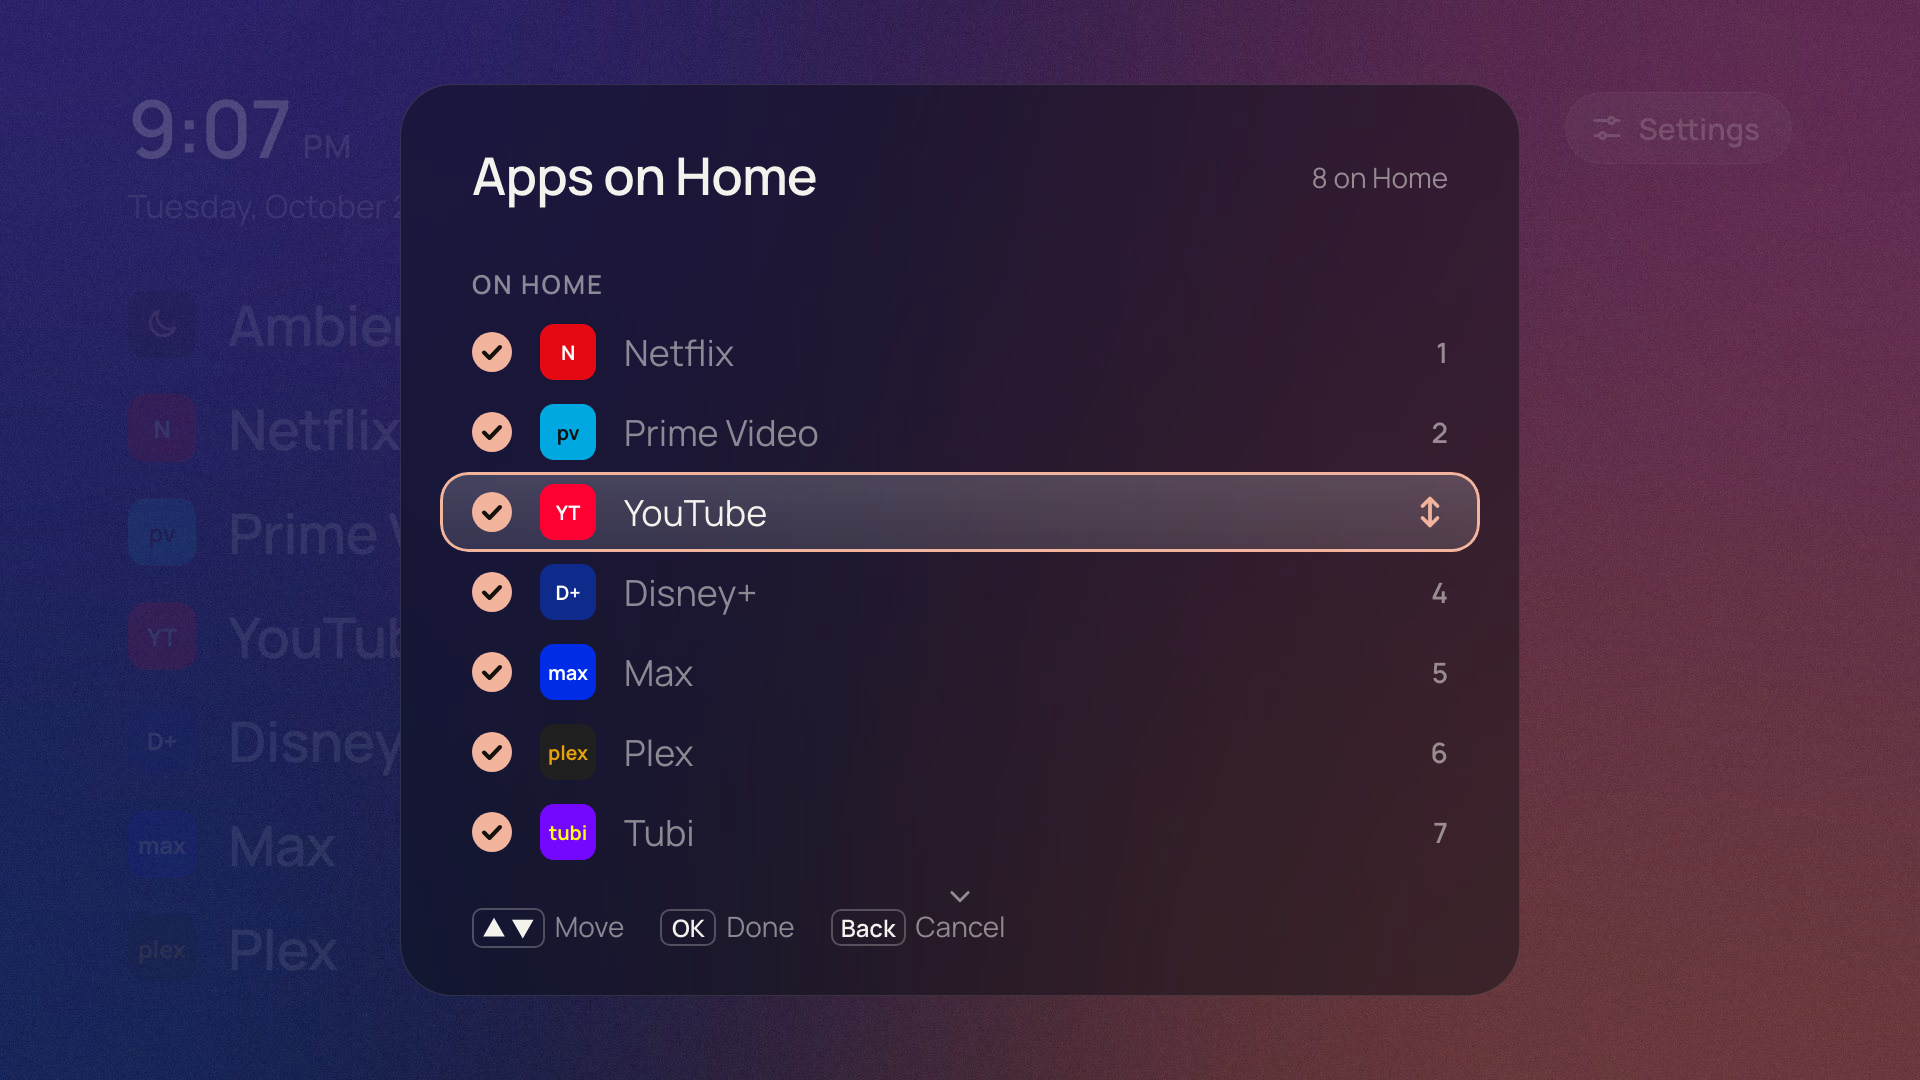
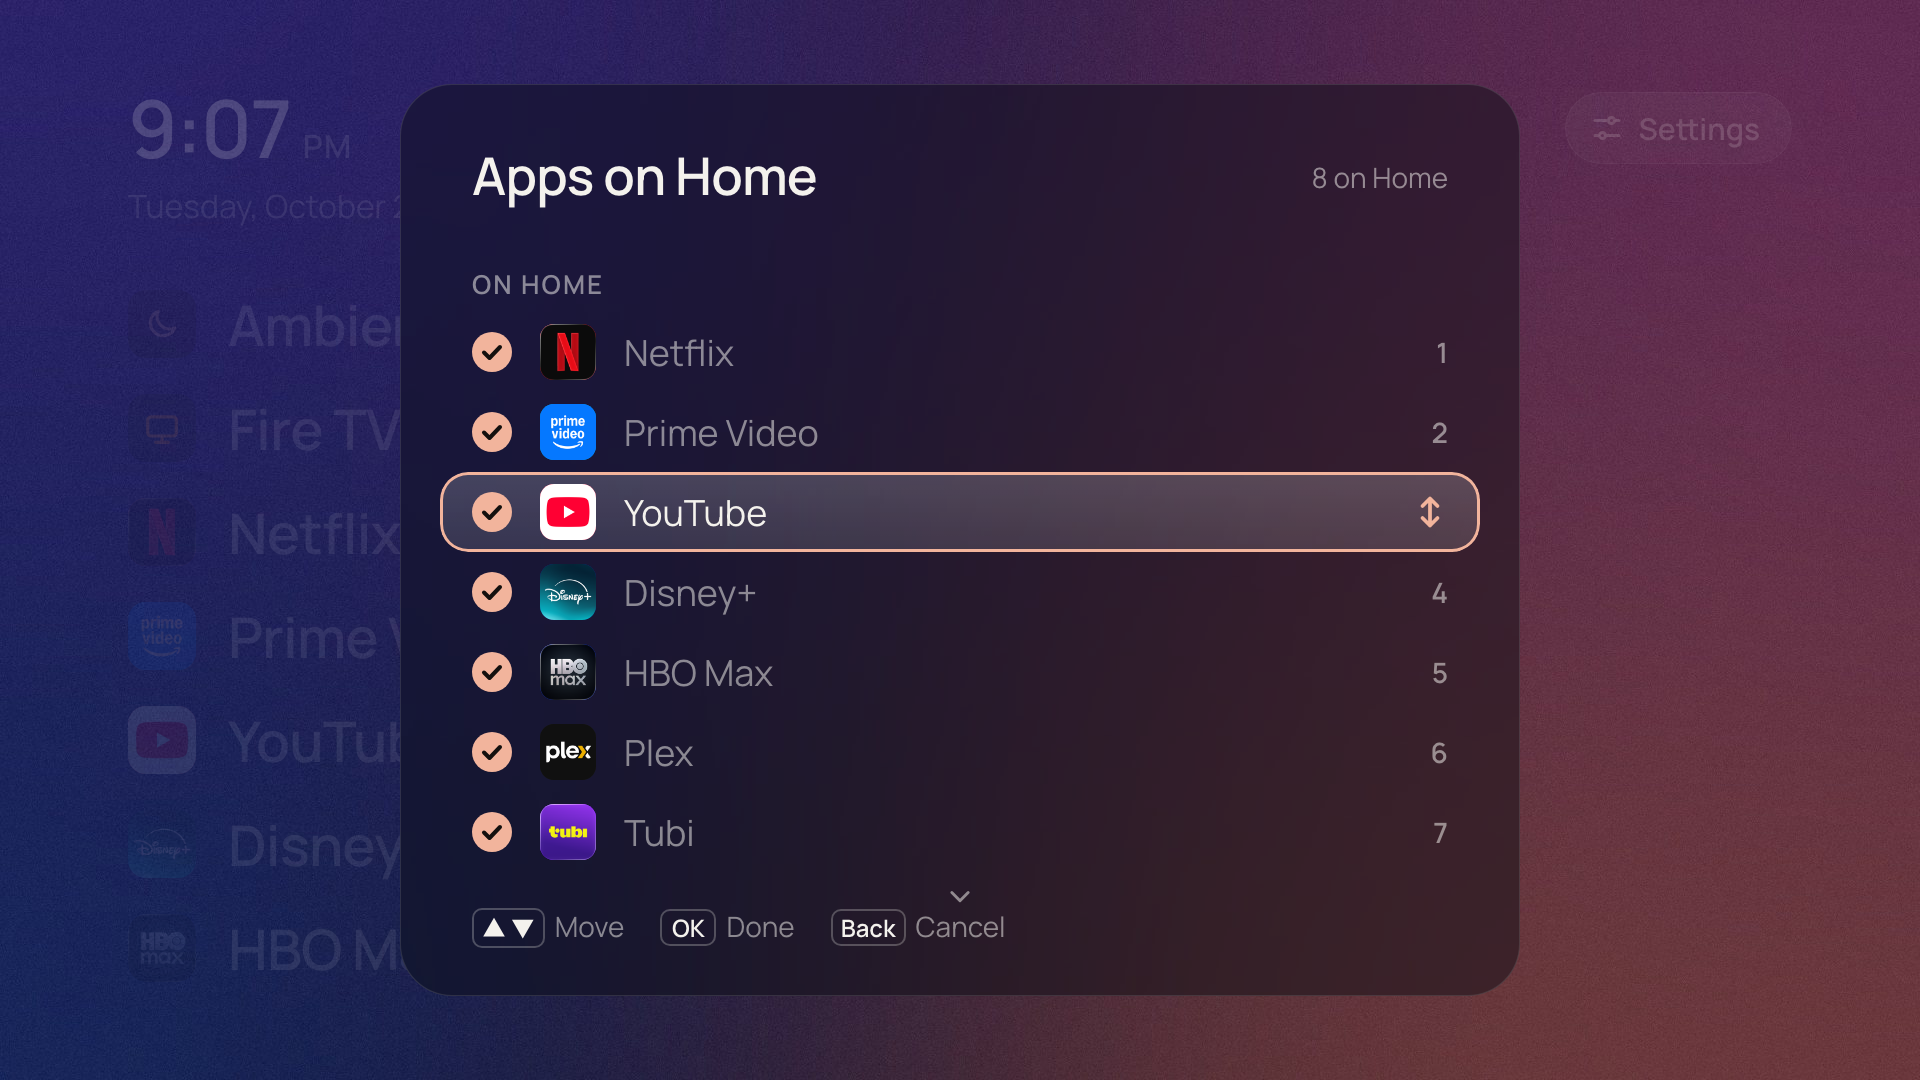
README: new screenshots, and the features added since
Every screenshot is re-captured from the current app, now with the
bundled app icons and the Fire TV item on Home. The README adds the
Ambient music checklist, a Settings shot with the new rows, and the
Brainrot feed with a sheet of one reel per kind. It also gains a Real
app icons bullet and an updated project layout and asset commands.

scripts/screenshots.mjs pins the clock to 9:07 PM, captures the
checklist, the six Ambient scenes and the Brainrot reels, and builds
the two contact sheets (about 2.5 minutes).

Changed region(s): [[0.2812, 0.275, 0.4062, 0.7028], [0.2812, 0.7333, 0.3125, 0.7944]]

diff --git a/README.md b/README.md
@@ -9,12 +9,13 @@ Samsung's Developer Mode. It does **not** root the TV, edit system files, or
 change what the Home button does. Samsung's own apps and Smart Hub stay
 exactly as they are.
 
-![List layout](docs/screens/list-dusk.png)
+![List layout: Ambient, Fire TV and the apps, each with its own icon](docs/screens/list-dusk.png)
 
 | | |
 | --- | --- |
-| ![Dock layout](docs/screens/dock-tide.png) | ![Settings](docs/screens/settings.png) |
-| ![Type focus, Fraunces, Ember](docs/screens/list-type-fraunces-ember.png) | ![Apps on Home](docs/screens/apps-on-home.png) |
+| ![Dock layout, Tide](docs/screens/dock-tide.png) | ![Settings](docs/screens/settings.png) |
+| ![Settings → Ambient music: a checklist of genres](docs/screens/music.png) | ![Settings → Apps on Home](docs/screens/apps-on-home.png) |
+| ![Type focus, Fraunces, Ember](docs/screens/list-type-fraunces-ember.png) | ![Text only, Space Grotesk, Night](docs/screens/list-text-night.png) |
 
 ## What you get
 
@@ -41,6 +42,10 @@ exactly as they are.
 - **Your apps, your order.** Settings → Apps on Home. OK adds an app; on an
   app that's already on Home, OK picks it up, ▲▼ move it, OK drops it, and ◀
   removes it.
+- **Real app icons.** Netflix, YouTube, Prime Video and the other apps Clean
+  Hub recognises show their own App Store or Google Play icon, bundled with
+  the app, rather than whatever the TV hands over (see
+  [below](#what-it-cant-do)).
 - **Five backgrounds** (Dusk, Tide, Ember, Night, Paper), **three fonts**
   (Manrope, Fraunces, Space Grotesk), **Glass or Type focus**, icons on or off,
   and a 12/24-hour clock or none.
@@ -60,6 +65,13 @@ move (`app/img/wall/`, placed and timed by `app/js/walls.js`). The TV only
 ever slides or fades those layers, the cheapest motion its compositor does,
 and a drifting layer is two copies of a seamless tile, so it never jumps.
 
+With Brainrot mode on, Ambient is the feed instead, with comments down the
+side. Every kind of reel, from the split-screen story to the DVD logo:
+
+![Brainrot mode](docs/screens/brainrot.png)
+
+![One reel of each kind](docs/screens/brainrot-reels.jpg)
+
 ### What it can't do
 
 - **The Home button still opens Samsung's Smart Hub.** Remapping it needs
@@ -77,9 +89,10 @@ and a drifting layer is two copies of a seamless tile, so it never jumps.
   `scripts/app-icons.json`). Other apps use the TV's icon, or a monogram tile
   when the TV won't hand one to a web app.
 - **Tested on the QN85B itself** (Tizen 6.5): the app list, icons, launching,
-  Ambient's music and the HDMI switch were checked live over the TV's
-  debugger. If an app is ever missing, Settings → Apps on Home → *Show
-  everything the TV lists* rescues it.
+  Ambient's music, the moving wallpapers (all at 60 fps), Brainrot mode and
+  the HDMI switch were checked live over the TV's debugger. If an app is ever
+  missing, Settings → Apps on Home → *Show everything the TV lists* rescues
+  it.
 
 ## Put it on the TV
 
@@ -131,21 +144,30 @@ engine, so the same build also runs on 2021 sets.
 app/                the .wgt contents that ship to the TV
   config.xml        Tizen widget manifest
   index.html
-  css/              app.css, fonts.css (generated)
+  css/              app.css, reel.css (Brainrot mode), fonts.css (generated)
   js/               catalog, options, store, apps, focus: pure logic
                     platform.js: the only file that calls `tizen`
                     ui.js: DOM; main.js: state and remote keys
+                    player.js: Ambient's music; walls.js: its moving wallpapers (generated)
                     brainrot.js: the feed's words; reel.js: its canvas scenes and sounds
-  img/              backgrounds (generated); apps/: app icons (fetched)
+  img/              backgrounds and wallpapers (generated); wall/: the wallpapers' moving layers;
+                    apps/: app icons (fetched)
+  music/            Ambient's tracks: the originals (playlist.js), a folder and a .js per genre,
+                    and brainrot/, the feed's soundtrack
   fonts/            Manrope, Fraunces, Space Grotesk (SIL OFL 1.1)
 scripts/            build.mjs, tv.py (sign/install), asset generation, compatibility check
+  music/            each genre's tracks, credits and sources, for prepare-music.py
 workbench/          desktop preview with a fake `tizen`
 test/unit, test/ui  node:test suites
+test/py             tv.py's tests (unittest)
 ```
 
 Regenerate assets with `python3 scripts/gen-backgrounds.py`,
-`python3 scripts/fetch-icons.py` and `node scripts/vendor-fonts.mjs`;
-refresh the README screenshots with `node scripts/screenshots.mjs`.
+`python3 scripts/gen-wallpapers.py`, `python3 scripts/fetch-icons.py` and
+`node scripts/vendor-fonts.mjs` (the music's scripts are below). Refresh the
+README screenshots with `node scripts/screenshots.mjs`: about three minutes,
+since it waits for Ambient's controls to fade and plays through the Brainrot
+feed to catch every kind of reel.
 
 ### The music
 
